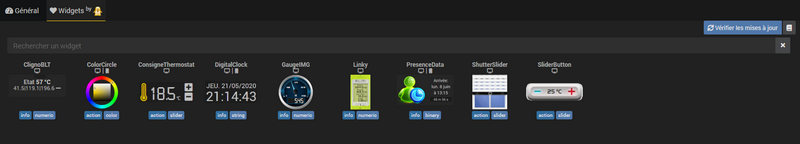
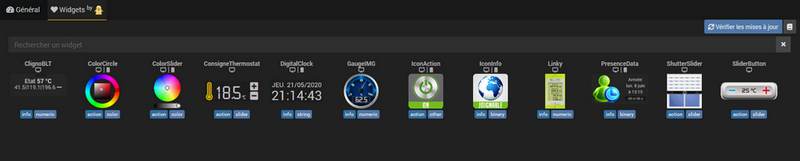
update pimpJeedom changelog

Changed region(s): [[0.0, 0.25, 1.0, 0.8333], [0.875, 0.1111, 1.0, 0.4444], [0.0, 0.0278, 0.1562, 0.1667]]

diff --git a/pimpJeedom/fr_FR/changelog.md b/pimpJeedom/fr_FR/changelog.md
@@ -7,6 +7,13 @@ pluginId: pimpJeedom
 
 # Changelog
 
+## 09-07-2020
+
+- Ajout du widget **IconInfo** pour commandes info/binaire.
+- Ajout du widget **Iconaction** pour commandes action/défaut.
+- Remplacement eqLogic par Config (merci @naboleo).
+- Passage de la dernière BETA en STABLE.
+
 ## 16-06-2020 (BETA)
 
 - Ajout du widget **ColorSlider** pour commandes action/couleur.
